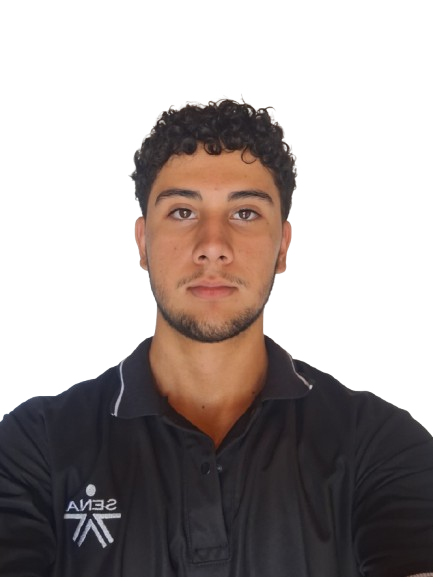
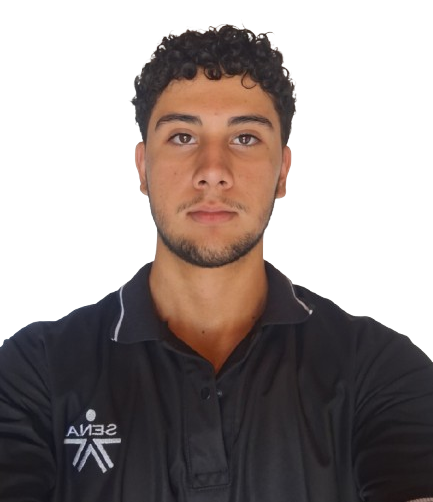
Cambios en las fotos del equipo

diff --git a/index.html b/index.html
@@ -364,8 +364,9 @@
 
       <!-- Section Title -->
       <div class="container section-title" data-aos="fade-up">
-        <h2>Equipo de desarrollo</h2>
-      </div><!-- End Section Title -->
+        <h2>Equipo de trabajo</h2>
+      </div>
+      <!-- End Section Title -->
 
       <div class="container">
 
@@ -373,14 +374,12 @@
 
           <div class="col-lg-4 col-md-6" data-aos="fade-up" data-aos-delay="100">
             <div class="member">
-              <div class="pic"><img src="assets/img/team/testimonials-1.jpg" class="img-team" alt=""></div>
+              <div class="pic"><img src="assets/img/team/ander_bg-removebg-preview.png" style="height: 400px; width: 400px;" class="img-fluid" alt=""></div>
               <div class="member-info">
                 <h4>Anderson Zapata</h4>
                 <span>Aprendiz ADSO</span>
                 <span>Desarrollo Móvil y Frontend Web</span>
-
                 <div class="social">
-                  <!-- <a href=""><i class="bi bi-twitter-x"></i></a> -->
                   <a href="https://github.com/Ander0907"><i class="bi bi-github"></i></a>
                   <a href="https://www.instagram.com/ander.zb/"><i class="bi bi-instagram"></i></a>
                   <a href="https://www.linkedin.com/in/anderson-zapata-b430412ba/"><i class="bi bi-linkedin"></i></a>
@@ -389,20 +388,17 @@
             </div>
           </div><!-- End Team Member -->
 
-          <div class="col-lg-4 col-md-6" data-aos="fade-up" data-aos-delay="100">
+          <div class="col-lg-4 col-md-6" data-aos="fade-up" data-aos-delay="200">
             <div class="member">
-              <div class="pic"><img src="assets/img/team/juanes-bg.png" class="img-juan" alt=""></div>
+              <div class="pic"><img src="assets/img/team/juanes-bg.png" style="height: 400px; width: 400px;" class="img-fluid" alt=""></div>
               <div class="member-info">
                 <h4>Juan Esteban Londoño</h4>
                 <span>Aprendiz ADSO</span>
                 <span>Lider de desarrollo Móvil y DBA</span>
                 <div class="social">
-                  <!-- <a href=""><i class="bi bi-twitter-x"></i></a> -->
                   <a href="https://github.com/JuanesZg"><i class="bi bi-github"></i></a>
                   <a href="https://www.instagram.com/juanes3z/"><i class="bi bi-instagram"></i></a>
-                  <a
-                    href="https://www.linkedin.com/in/juan-esteban-londo%C3%B1o/?utm_source=share&utm_campaign=share_via&utm_content=profile&utm_medium=android_app"><i
-                      class="bi bi-linkedin"></i></a>
+                  <a href="https://www.linkedin.com/in/juan-esteban-londo%C3%B1o/?utm_source=share&utm_campaign=share_via&utm_content=profile&utm_medium=android_app"><i class="bi bi-linkedin"></i></a>
                 </div>
               </div>
             </div>
@@ -410,13 +406,12 @@
 
           <div class="col-lg-4 col-md-6" data-aos="fade-up" data-aos-delay="300">
             <div class="member">
-              <div class="pic"><img src="assets/img/team/testimonials-3.jpg" class="img-team" alt=""></div>
+              <div class="pic"><img src="assets/img/team/jero-bg.png" style="height: 400px; width: 400px;" class="img-fluid " alt=""></div>
               <div class="member-info">
                 <h4>Jerónimo Tobón</h4>
                 <span>Aprendiz ADSO</span>
                 <span>Desarrollo Móvil y Backend Web</span>
                 <div class="social">
-                  <!-- <a href=""><i class="bi bi-twitter-x"></i></a> -->
                   <a href="https://github.com/JeronimoTB"><i class="bi bi-github"></i></a>
                   <a href="https://www.instagram.com/jero_14t/"><i class="bi bi-instagram"></i></a>
                   <a href="https://www.linkedin.com/in/jeronimo-tobon-berrio/"><i class="bi bi-linkedin"></i></a>

diff --git a/assets/css/main.css b/assets/css/main.css
@@ -1022,7 +1022,6 @@ section,
 }
 
 .img-juan{
-  max-width: 80%;
   max-height: 336px;
 }
 
